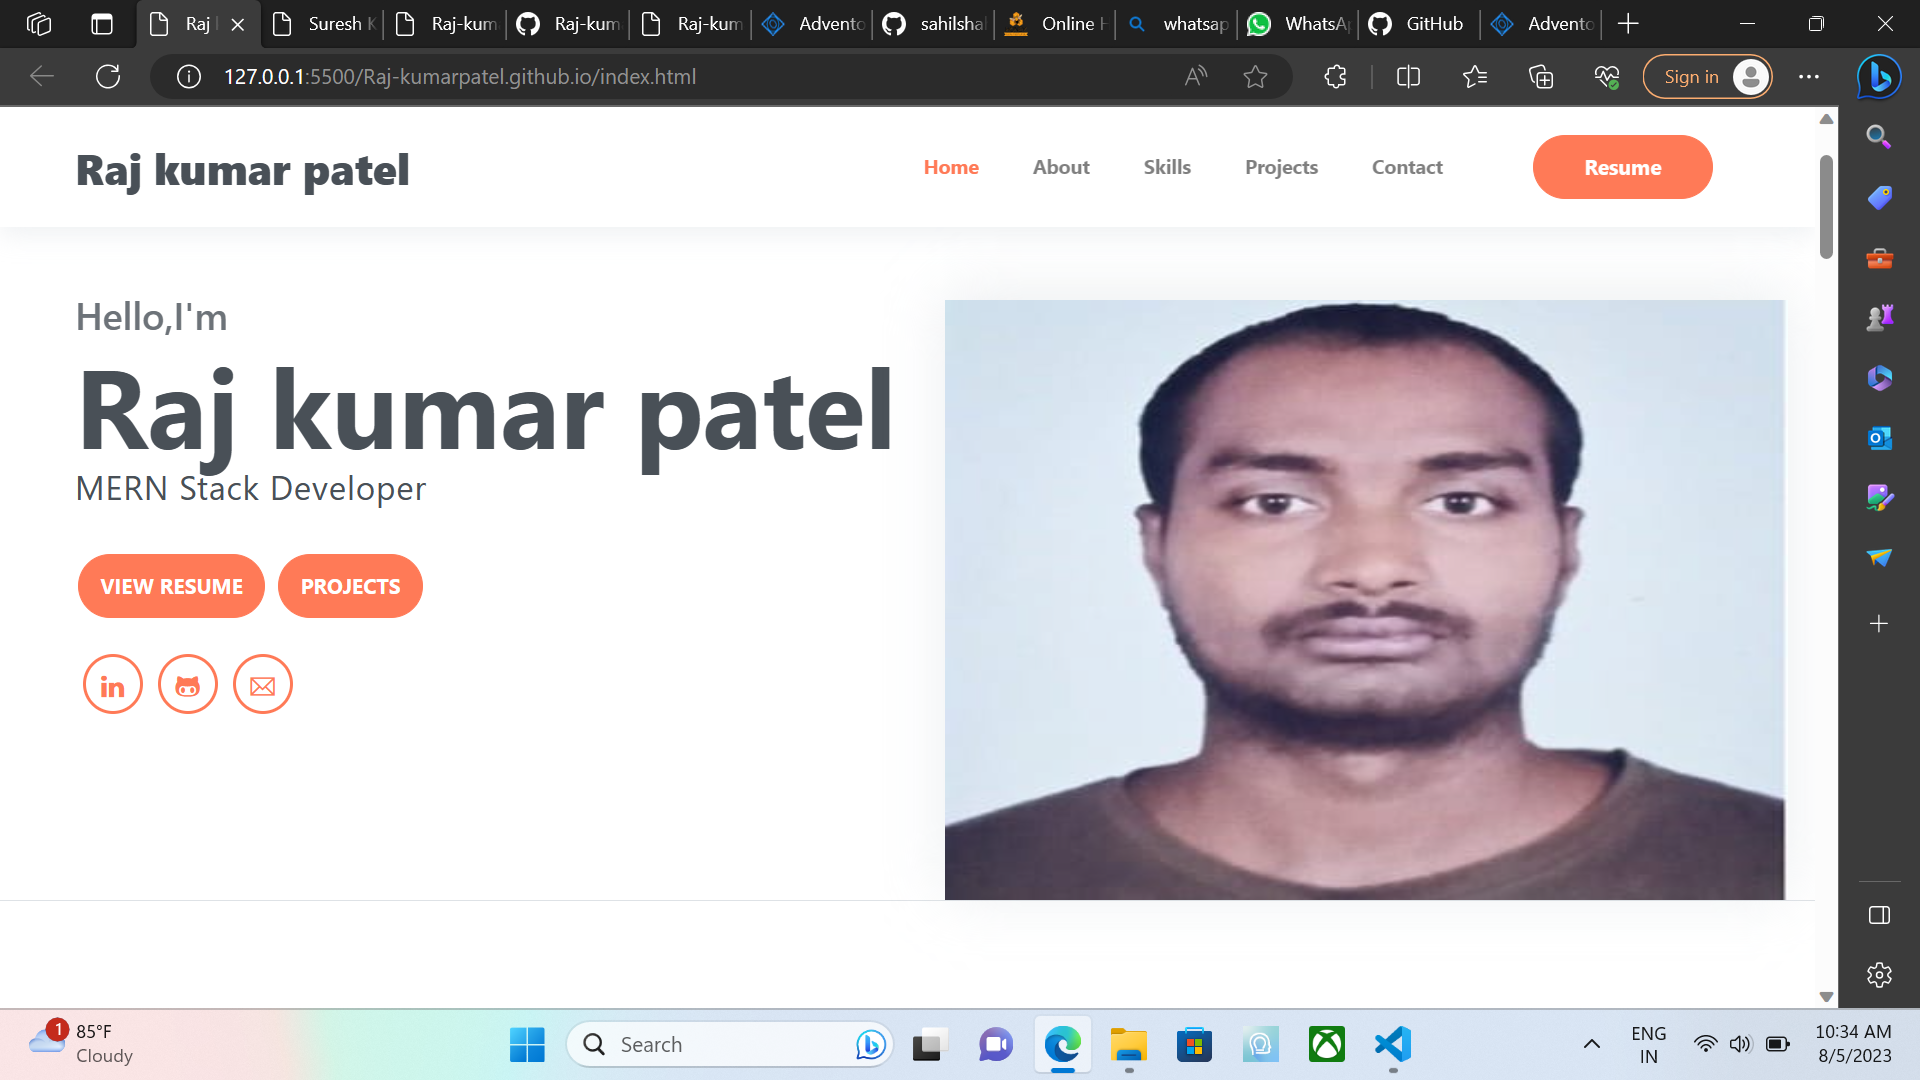
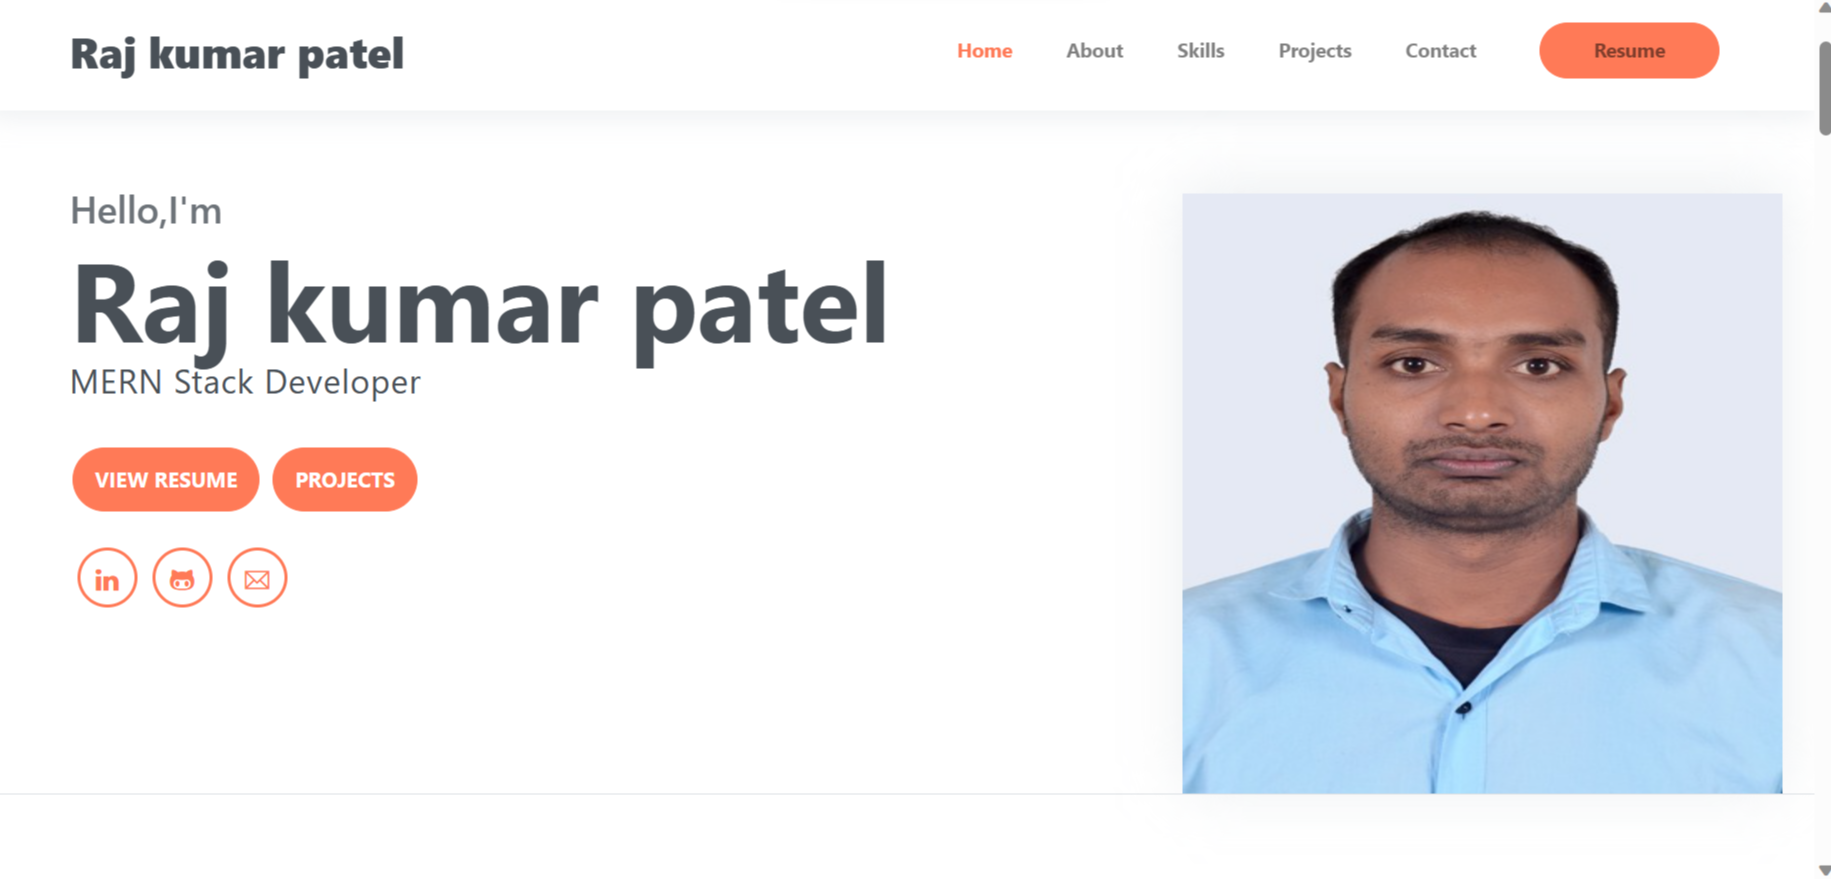
updated profile

diff --git a/index.html b/index.html
@@ -56,7 +56,7 @@
 
     <!-- Page Header -->
     <section class="header" id="home">
-        <div class="container">
+        <div class="container" >
             <div class="infos">
 
                 <h6 class="subtitle">Hello,I'm</h6>
@@ -85,8 +85,8 @@
                         id="contact-email" target="_blank"><i class="ti-email"></i></a>
                 </div>
             </div>
-            <div class="img-holder">
-                <img src="./public_html/assets/ImagesProfile/raj's photo.jpg" alt="raj" width='50px' height="400px"
+            <div class="img-holder" >
+                <img src="./public_html/assets/ImagesProfile/original.jpeg" alt="raj" 
                     class="home-img">
             </div>
         </div>
@@ -102,7 +102,7 @@
             <h6 class="section-title mb-4">About</h6>
             <div class="row text-center text-md-left">
                 <div class="col-md-3">
-                    <img src="./public_html/assets/ImagesProfile/raj's photo.jpg" alt="raj kumar"
+                    <img src="./public_html/assets/ImagesProfile/original.jpeg" alt="raj kumar"
                         class="img-thumbnail mb-4 home-img">
                 </div>
                 <div class="pl-md-4 col-md-8">
@@ -115,8 +115,8 @@
                         React,Redux, and Node. I firmly believe that collaboration is the cornerstone of building great
                         things, and I am always eager to work with others to create something truly amazing.
                     </p>
-                    <button class="btn btn-primary rounded mt-3" id="resume-button-2"
-                        onclick="viewAndDownload()">Resume</button>
+                    <!-- <button class="btn btn-primary rounded mt-3" id="resume-button-2"
+                        onclick="viewAndDownload()">Resume</button> -->
                 </div>
             </div>
         </div>
@@ -397,7 +397,7 @@
 
                 </div>
                 <div class="contact-infos">
-                    <img src="./public_html/assets/ImagesProfile/raj's photo.jpg" class="contact-image"
+                    <img src="./public_html/assets/ImagesProfile/original.jpeg" class="contact-image"
                         style="margin-top: 30px;" />
                     <h3 style="margin-top: 10px;">My Socials</h3>
                     <br>
@@ -466,7 +466,7 @@
 
         // Use a proxy
         // GitHubCalendar(".calendar", "Raj-kumarpatel", {
-        //    proxy (Rajkumarpatel) {
+        //    proxy (Raj-kumarpatel) {
         //      return fetch(`https://your-proxy.com/github?user=${Raj-kumarpatel}`)
         //    }
         // }).then(r => r.text())

diff --git a/public_html/assets/css/steller.css b/public_html/assets/css/steller.css
@@ -12683,7 +12683,8 @@ pre {
 }
 
 .header .container .img-holder img {
-  width: 100%;
+  width: 400px;
+  height: 400px;
   max-width: 620px;
   -webkit-filter: drop-shadow(0 -4px 20px rgba(206, 212, 218, 0.4));
   filter: drop-shadow(0 -4px 20px rgba(206, 212, 218, 0.4));
